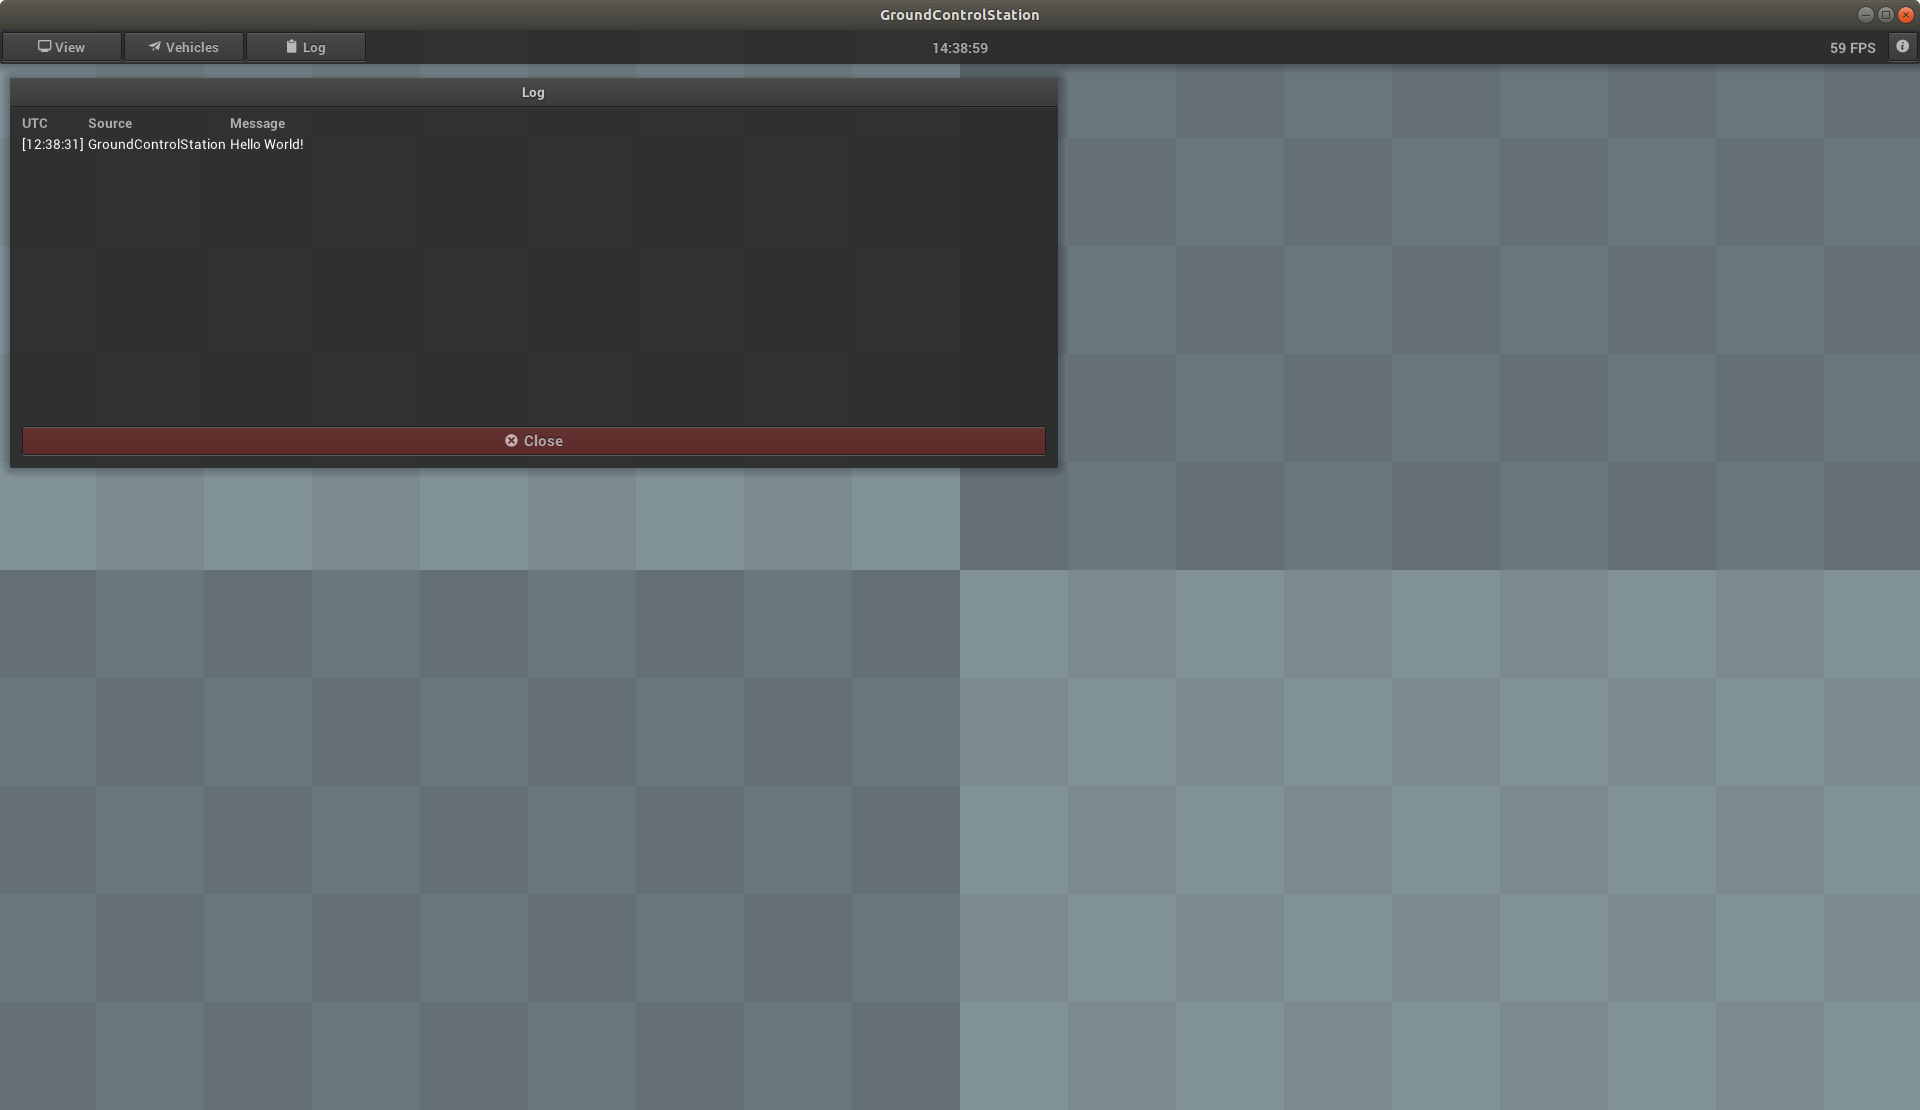
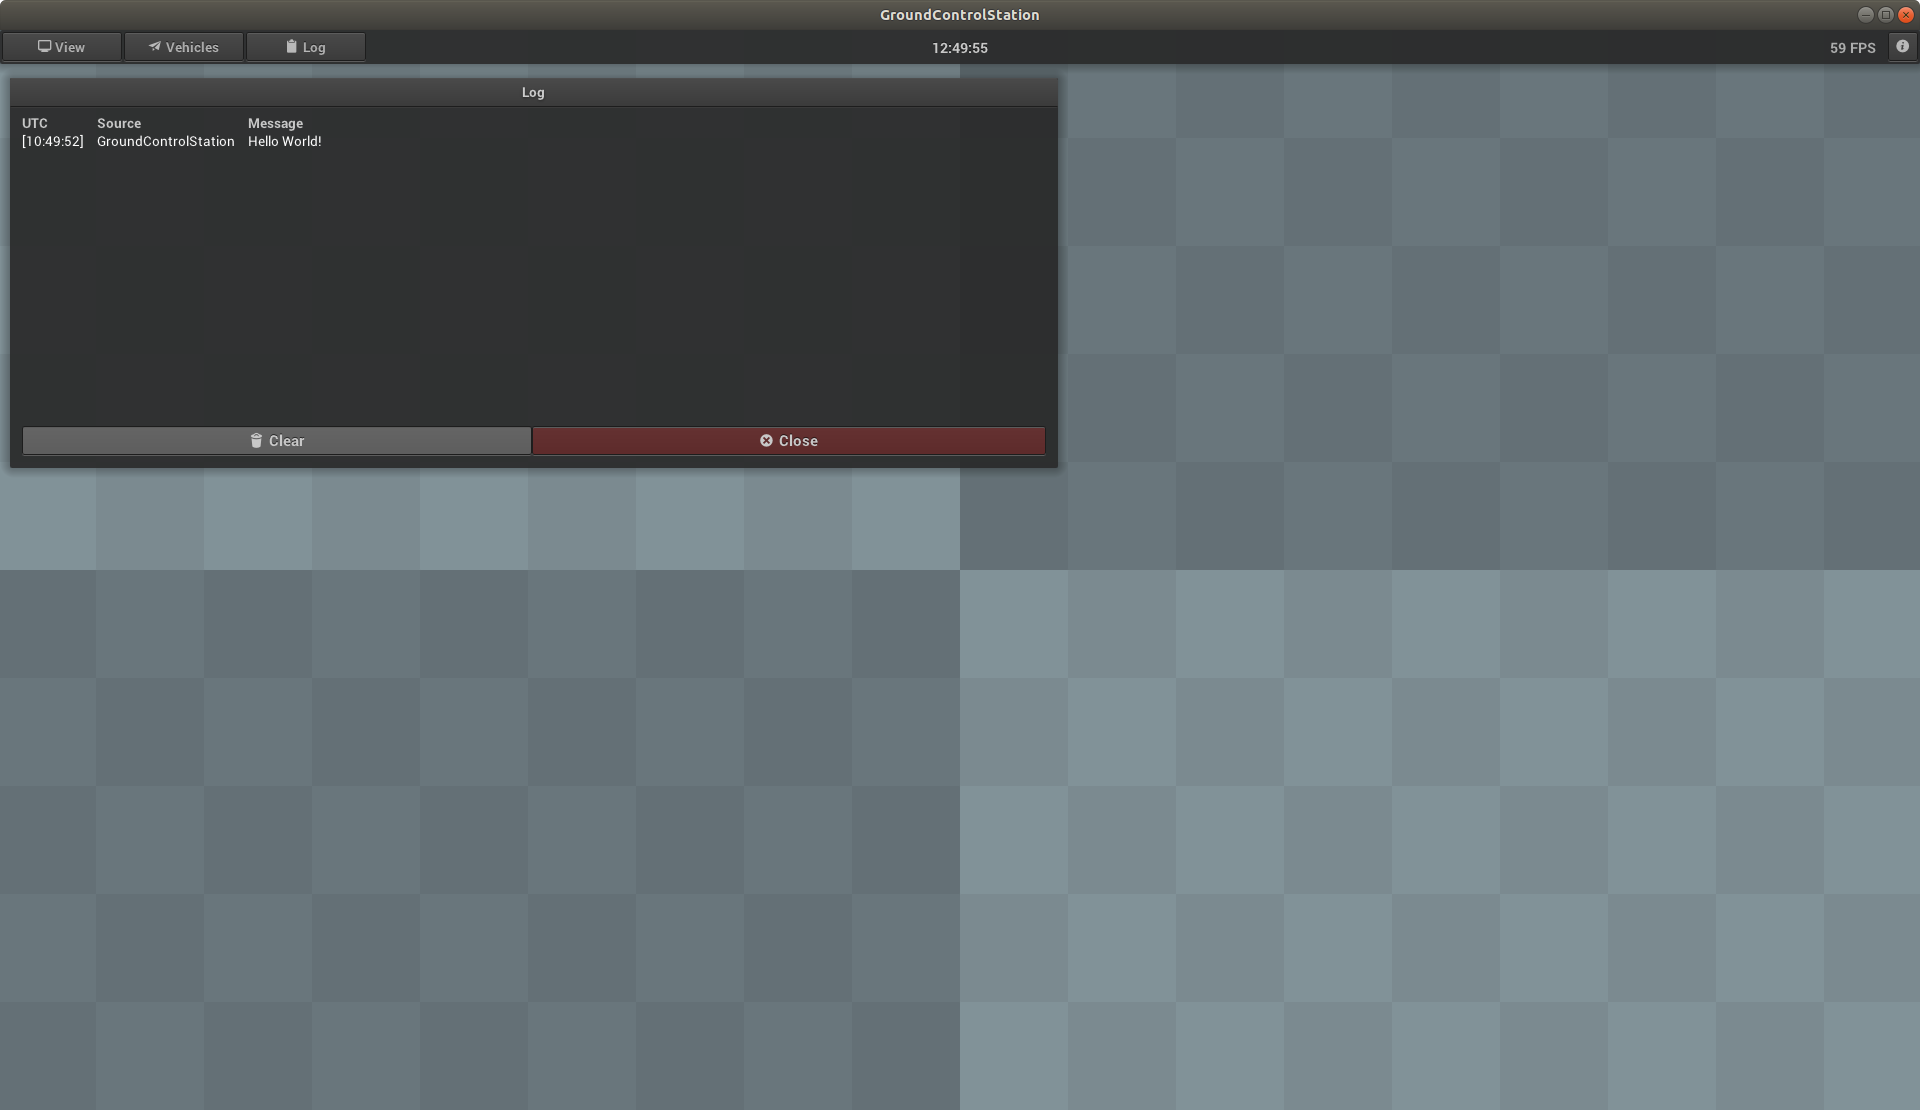
Update documentation.

Changed region(s): [[0.0, 0.3676, 0.2812, 0.4288], [0.0, 0.0919, 0.1562, 0.1532]]

diff --git a/bin/documentation/html/log.html b/bin/documentation/html/log.html
@@ -10,7 +10,7 @@
 <body>
 <header>
 <div class="header_title">Ground Control Station (GCS)</div>
-<div class="header_version">Version 20220819</div>
+<div class="header_version">Version 20220902</div>
 </header>
 <button onclick="PageToTop()" id="buttonToTop"></button>
 <div class="wrapper">
@@ -47,7 +47,7 @@
     messages. Log messages can be sent to the GCS as IMP messages. The vehicle must be in the database of the GCS. As soon
     as the GCS receives a new log message, the log button text of the toolbar is colored red. If the
     <a href="configurationtts.html">text-to-speech</a> output is enabled and configured and the text of the log is valid, then
-    there is a voice output.
+    there is a voice output. Pressing the "Clear" button removes all log messages.
     <br><br>
     A log message consists of three columns:
     <h3>UTC</h3>

diff --git a/bin/documentation/html/configuration.html b/bin/documentation/html/configuration.html
@@ -10,7 +10,7 @@
 <body>
 <header>
 <div class="header_title">Ground Control Station (GCS)</div>
-<div class="header_version">Version 20220819</div>
+<div class="header_version">Version 20220902</div>
 </header>
 <button onclick="PageToTop()" id="buttonToTop"></button>
 <div class="wrapper">

diff --git a/bin/documentation/html/configurationdatabase.html b/bin/documentation/html/configurationdatabase.html
@@ -10,7 +10,7 @@
 <body>
 <header>
 <div class="header_title">Ground Control Station (GCS)</div>
-<div class="header_version">Version 20220819</div>
+<div class="header_version">Version 20220902</div>
 </header>
 <button onclick="PageToTop()" id="buttonToTop"></button>
 <div class="wrapper">

diff --git a/bin/documentation/html/configurationnetwork.html b/bin/documentation/html/configurationnetwork.html
@@ -10,7 +10,7 @@
 <body>
 <header>
 <div class="header_title">Ground Control Station (GCS)</div>
-<div class="header_version">Version 20220819</div>
+<div class="header_version">Version 20220902</div>
 </header>
 <button onclick="PageToTop()" id="buttonToTop"></button>
 <div class="wrapper">

diff --git a/bin/documentation/html/configurationorigin.html b/bin/documentation/html/configurationorigin.html
@@ -10,7 +10,7 @@
 <body>
 <header>
 <div class="header_title">Ground Control Station (GCS)</div>
-<div class="header_version">Version 20220819</div>
+<div class="header_version">Version 20220902</div>
 </header>
 <button onclick="PageToTop()" id="buttonToTop"></button>
 <div class="wrapper">

diff --git a/bin/documentation/html/configurationstyle.html b/bin/documentation/html/configurationstyle.html
@@ -10,7 +10,7 @@
 <body>
 <header>
 <div class="header_title">Ground Control Station (GCS)</div>
-<div class="header_version">Version 20220819</div>
+<div class="header_version">Version 20220902</div>
 </header>
 <button onclick="PageToTop()" id="buttonToTop"></button>
 <div class="wrapper">

diff --git a/bin/documentation/html/configurationtts.html b/bin/documentation/html/configurationtts.html
@@ -10,7 +10,7 @@
 <body>
 <header>
 <div class="header_title">Ground Control Station (GCS)</div>
-<div class="header_version">Version 20220819</div>
+<div class="header_version">Version 20220902</div>
 </header>
 <button onclick="PageToTop()" id="buttonToTop"></button>
 <div class="wrapper">

diff --git a/bin/documentation/html/datasettings.html b/bin/documentation/html/datasettings.html
@@ -10,7 +10,7 @@
 <body>
 <header>
 <div class="header_title">Ground Control Station (GCS)</div>
-<div class="header_version">Version 20220819</div>
+<div class="header_version">Version 20220902</div>
 </header>
 <button onclick="PageToTop()" id="buttonToTop"></button>
 <div class="wrapper">

diff --git a/bin/documentation/html/guioverview.html b/bin/documentation/html/guioverview.html
@@ -10,7 +10,7 @@
 <body>
 <header>
 <div class="header_title">Ground Control Station (GCS)</div>
-<div class="header_version">Version 20220819</div>
+<div class="header_version">Version 20220902</div>
 </header>
 <button onclick="PageToTop()" id="buttonToTop"></button>
 <div class="wrapper">

diff --git a/bin/documentation/html/index.html b/bin/documentation/html/index.html
@@ -10,7 +10,7 @@
 <body>
 <header>
 <div class="header_title">Ground Control Station (GCS)</div>
-<div class="header_version">Version 20220819</div>
+<div class="header_version">Version 20220902</div>
 </header>
 <button onclick="PageToTop()" id="buttonToTop"></button>
 <div class="wrapper">

diff --git a/bin/documentation/html/info.html b/bin/documentation/html/info.html
@@ -10,7 +10,7 @@
 <body>
 <header>
 <div class="header_title">Ground Control Station (GCS)</div>
-<div class="header_version">Version 20220819</div>
+<div class="header_version">Version 20220902</div>
 </header>
 <button onclick="PageToTop()" id="buttonToTop"></button>
 <div class="wrapper">

diff --git a/bin/documentation/html/time.html b/bin/documentation/html/time.html
@@ -10,7 +10,7 @@
 <body>
 <header>
 <div class="header_title">Ground Control Station (GCS)</div>
-<div class="header_version">Version 20220819</div>
+<div class="header_version">Version 20220902</div>
 </header>
 <button onclick="PageToTop()" id="buttonToTop"></button>
 <div class="wrapper">
